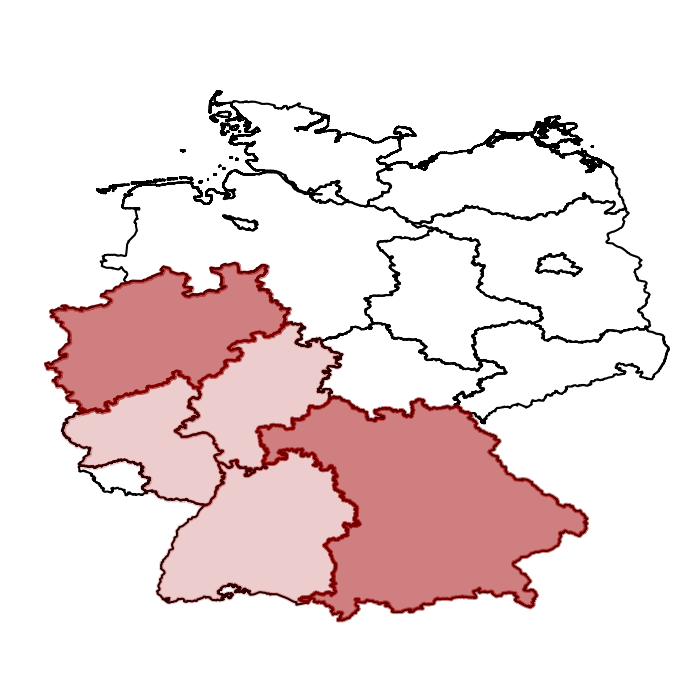
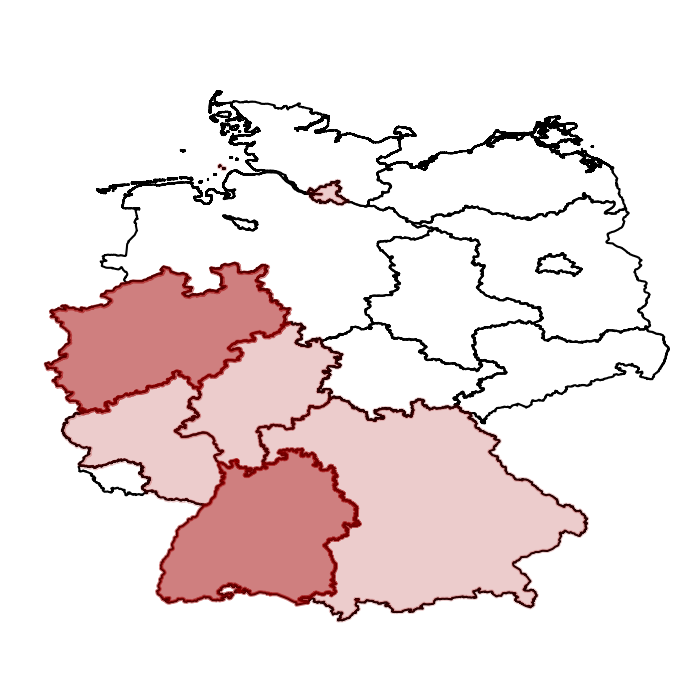
version 1.0.2 add recover type

Changed region(s): [[0.21, 0.57, 0.84, 0.9], [0.42, 0.24, 0.51, 0.3]]

diff --git a/index.html b/index.html
@@ -3,6 +3,7 @@
     <head>
         <title>德国nCoV-19统计图</title>
         <meta name="viewport" content="initial-scale=1.0, user-scalable=no">
+        <meta name="viewport" content="width=device-width, initial-scale=1.0, user-scalable=no, minimum-scale=1.0, maximum-scale=1.0"/>
         <meta charset="utf-8">
         <meta property="og:image" content="http://kiang.github.io/TainanDengueMap/og_image_0821.png">
         <link rel="stylesheet" href="./reset.css">
@@ -58,6 +59,7 @@
                 background: #f6f6f6;
                 float: left;
                 text-align: center;
+                padding-top: 66px;
             }
             
             .btn-group-left
@@ -84,7 +86,7 @@
             .btn-group-middle
             {
                 padding-left: 2px;
-                padding-top: 75px;
+                padding-top: 50px;
             }
             .btn-group-middle li
             {
@@ -93,9 +95,29 @@
                 color: black;
                 font-weight: 700;
             }
+            .middle-right-container
+            {
+                width:45px;
+                height: 500px;
+                background: #f6f6f6;
+                float: left;
+                text-align: center;
+            }
+            .btn-group-middle-right
+            {
+                padding-left: 2px;
+                padding-top: 50px;
+            }
+            .btn-group-middle-right li
+            {
+                padding-top: 3px;
+                padding-bottom: 3px;
+                color: black;
+                font-weight: 700;
+            }
             .right-container
             {
-                width: 730px;
+                width: 680px;
                 height:450px;
                 float: right;
                 background: white;
@@ -144,7 +166,7 @@
             
             .legend
             {
-                width: 730px;
+                width: 680px;
                 height:50px;
                 line-height: 20px;
                 float: right;
@@ -196,7 +218,7 @@
         <div class="container">
             <div class="left-container">
                 <ul class="btn-group-left">
-                    <h2 id="content" class="text-muted">确诊分布</h2>
+                    
                     <li >Baden-Württemberg:</li>
                     <li >Bayern:</li>
                     <li >Berlin:</li>
@@ -217,17 +239,39 @@
             </div>
             <div class="middle-container">
                     <ul class="btn-group-middle">
-                        <li >8</li>
+                        <li>现存</li>
+                        <li >10</li>
+                        <li >1</li>
+                        <li >0</li>
+                        <li >0</li>
+                        <li >0</li>
+                        <li >1</li>
+                        <li >1</li>
+                        <li >0</li>
+                        <li >0</li>
+                        <li >20</li>
+                        <li >1</li>
+                        <li >0</li>
+                        <li >0</li>
+                        <li >0</li>
+                        <li >0</li>
+                        <li >0</li>
+                    </ul>
+                </div>
+                <div class="middle-right-container">
+                    <ul class="btn-group-middle-right">
+                        <li>治愈</li>
+                        <li >0</li>
                         <li >14</li>
                         <li >0</li>
                         <li >0</li>
                         <li >0</li>
                         <li >0</li>
-                        <li >2</li>
                         <li >0</li>
                         <li >0</li>
-                        <li >19</li>
-                        <li >2</li>
+                        <li >0</li>
+                        <li >0</li>
+                        <li >0</li>
                         <li >0</li>
                         <li >0</li>
                         <li >0</li>
@@ -261,7 +305,7 @@
 
                 </div>
             <div class="comment">
-                <p>写在最后：目前手动更新数据为主，大家有最新的确诊新闻可以发送到邮箱153050205@qq.com，格式（主题：洲名+城市名+确诊日期，正文：新闻链接）或者也可以建个微信群便于消息汇总。
+                <p>写在最后：目前手动更新数据为主，大家有最新的确诊新闻可以发送到邮箱153050205@qq.com，格式（主题：州名+城市名+确诊日期，正文：新闻链接）或者也可以建个微信群便于消息汇总。
                     同时也欢迎满足以下条件之一的小伙伴们来一起维护更新数据（在德国出现官方统计网站之前），1.python编程能力不错的 2.懂网页前端编程的 3.愿意帮忙花时间整理数据的。
                     &nbsp&nbsp&nbsp&nbsp&nbsp&nbsp&nbsp&nbsp&nbsp&nbsp&nbsp&nbsp&nbsp&nbsp&nbsp&nbsp作者：MRT&nbspkencht
                 </p>
